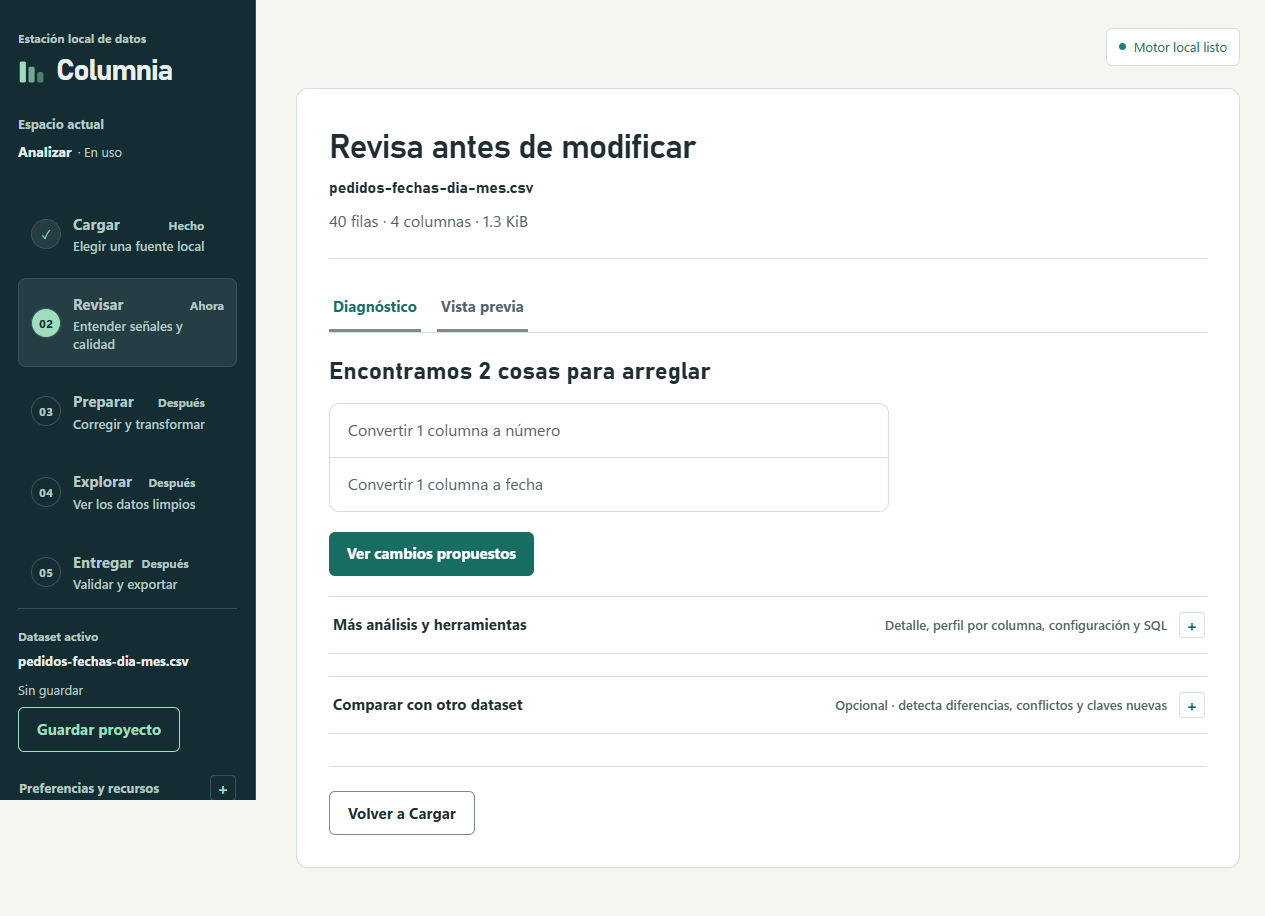
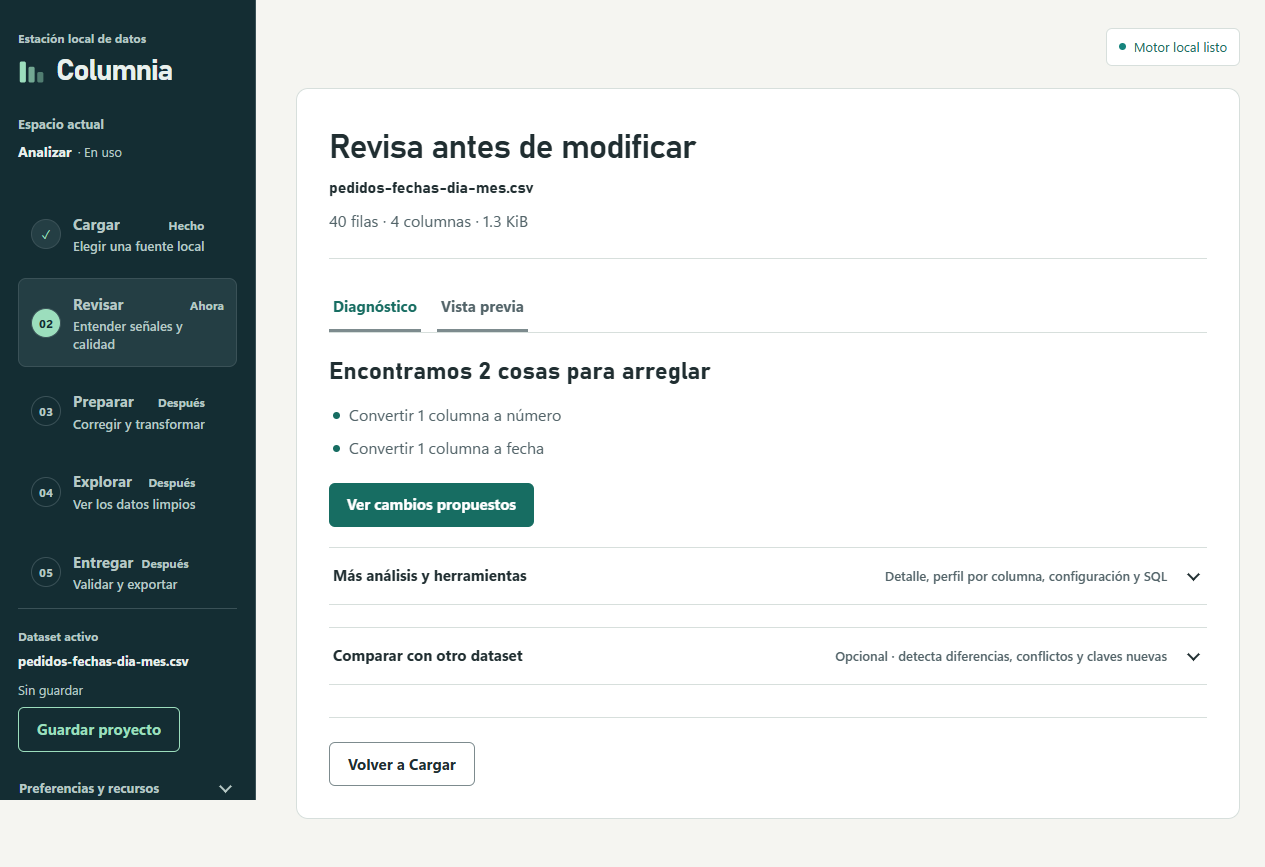
style(ui): chevron sin tamaño heredado, «Ver antes y después» recupera su estilo y galería nueva
La galería del README se regenera desde la app real con el diseño unificado,
Explorar sin identificadores y «Revisar de nuevo».

diff --git a/src/workflow-styles.css b/src/workflow-styles.css
@@ -1274,8 +1274,7 @@ button:active:not(:disabled) { transform: translateY(1px); }
 .prepare-proposal__row input { flex: 0 0 auto; width: 20px; height: 20px; margin: 0; accent-color: var(--accent); }
 .prepare-proposal__row label { flex: 1 1 auto; font-size: 1.05rem; font-weight: 650; cursor: pointer; }
 .prepare-proposal__hint { margin: 0 0 0 34px; color: var(--text-secondary); font-size: .9rem; }
-.prepare-proposal__examples-toggle,
-.prepare-proposal__examples-toggle { border-color: var(--border-subtle); text-decoration: none; }
+.prepare-proposal__examples-toggle { min-height: 44px; padding: 0 12px; border: 1px solid var(--border-subtle); border-radius: 6px; background: transparent; color: var(--accent); font: inherit; text-decoration: none; cursor: pointer; }
 .prepare-proposal__examples { display: grid; grid-template-columns: repeat(auto-fill, minmax(200px, 1fr)); gap: 8px; margin: 4px 0 0 34px; padding: 0; list-style: none; }
 .prepare-proposal__examples li { display: grid; gap: 4px; padding: 10px 12px; border: 1px solid var(--border-subtle); border-radius: 6px; background: var(--surface); font-size: .9rem; }
 .prepare-proposal__before { color: var(--text-secondary); }

diff --git a/src/styles.css b/src/styles.css
@@ -1974,11 +1974,14 @@ body { color: var(--text-primary); background: var(--canvas); }
 :root:root details > summary::after {
   content: "";
   display: inline-block;
-  flex-shrink: 0;
+  flex: 0 0 auto;
   align-self: center;
   justify-self: center;
   width: 7px;
   height: 7px;
+  min-width: 0;
+  min-height: 0;
+  padding: 0;
   margin: 0 6px 3px 10px;
   border: solid currentColor;
   border-width: 0 2px 2px 0;
